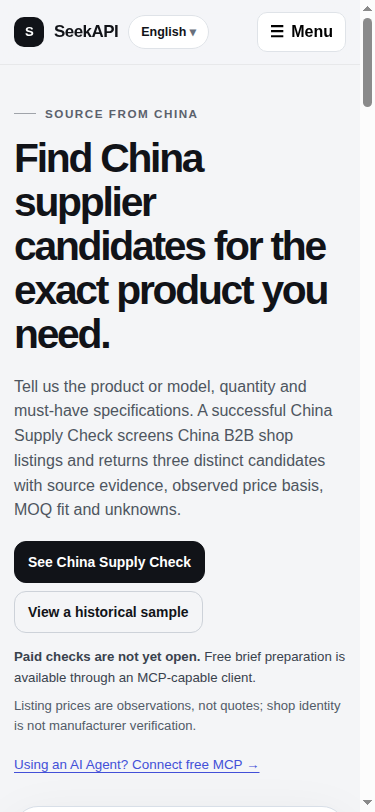
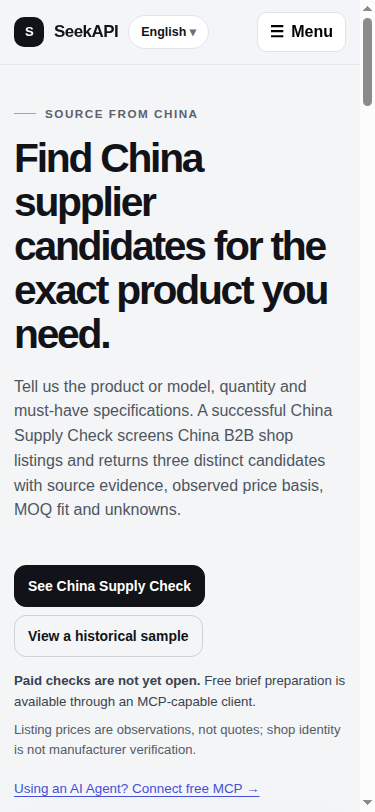
Repair B and C first-screen hierarchy and preserve price-tier uncertainty

Changed region(s): [[0.0293, 0.6466, 0.9093, 0.9852]]

diff --git a/app/growth.css b/app/growth.css
@@ -1,1 +1,8 @@
 .growth-hero{padding:64px 0 72px}.growth-hero-grid{display:grid;grid-template-columns:1.15fr .85fr;gap:56px;align-items:center}.growth-hero h1{font-size:clamp(2.7rem,4.5vw,4.5rem);line-height:1.04;letter-spacing:-.055em;max-width:720px}.growth-lead{font-size:1.1rem;color:#4e5560;line-height:1.65;margin:24px 0}.growth-availability{font-size:.88rem;color:#39424d;line-height:1.55;margin:18px 0 8px;max-width:640px}.growth-limits{font-size:.86rem;color:#525b68;margin:0 0 16px;max-width:640px}.growth-agent-link{font-size:.84rem;color:#4350d8;text-decoration:underline;text-underline-offset:3px}.growth-brief{border:1px solid #d8dfe8;background:#fff;border-radius:24px;padding:28px;box-shadow:var(--shadow)}.growth-label{font-size:.72rem;font-weight:750;letter-spacing:.08em;text-transform:uppercase;color:#606978}.growth-inputs{margin:16px 0 0}.growth-inputs>div{padding:14px 0;border-bottom:1px solid #e6eaf0}.growth-inputs dt{font-size:.78rem;color:#697280}.growth-inputs dd{margin:4px 0 0;font-weight:650;font-size:1rem}.growth-result{border-radius:16px;background:#eef1fb;padding:20px;margin-top:22px}.growth-result strong{display:block;font-size:1.35rem;letter-spacing:-.025em;margin-top:12px}.growth-result p{font-size:.92rem;line-height:1.65;color:#4b5568}.growth-result .growth-small{font-size:.82rem;margin-bottom:0}.growth-proof{padding:56px 0;background:#e9edf3;border-block:1px solid #d9e0e9}.growth-proof .section-heading{margin-bottom:24px}.growth-proof .section-heading h2{font-size:clamp(2rem,3vw,3rem)}.growth-proof-row{display:flex;gap:32px;align-items:center;justify-content:space-between}.growth-proof-row p{max-width:760px;margin:0;color:#475263;line-height:1.7}.growth-proof-row .button{flex-shrink:0}.growth-question-grid{display:grid;grid-template-columns:repeat(3,minmax(0,1fr));gap:18px}.growth-question-grid>a{background:#fff;border:1px solid var(--line);border-radius:20px;padding:26px}.growth-question-grid>a:hover{border-color:#7886bd}.growth-question-grid span{color:#5662b1;font-size:.78rem;font-weight:750}.growth-question-grid h3{font-size:1.25rem;margin:18px 0 10px;line-height:1.35;letter-spacing:-.025em}.growth-question-grid p{color:#68707b;line-height:1.6}.growth-next{background:#edf0f6}.section-dark .text-link{color:#b4bcff}.growth-utility{font-size:.82rem;white-space:nowrap;color:#525b68;text-decoration:underline;text-underline-offset:3px}@media(max-width:1100px){.growth-utility{display:none}}@media(max-width:980px){.growth-hero-grid{grid-template-columns:1fr;gap:30px}.growth-brief{max-width:640px}.growth-question-grid{grid-template-columns:1fr}.growth-proof-row{align-items:flex-start;flex-direction:column}.growth-utility{display:inline}}@media(max-width:700px){.growth-hero{padding:32px 0 44px}.growth-hero h1{font-size:2.55rem;line-height:1.08}.growth-hero .eyebrow{margin-bottom:14px}.growth-lead{font-size:1rem;margin:18px 0;line-height:1.55}.growth-hero .button-row{gap:8px}.growth-hero .button{min-height:42px;font-size:.87rem;padding:0 13px}.growth-brief{padding:22px}.growth-availability{margin-top:14px;font-size:.83rem}.growth-limits{font-size:.82rem}.growth-utility{display:none}.growth-proof{padding:40px 0}.growth-next .section-heading h2{font-size:2.5rem}}@media(prefers-reduced-motion:reduce){html{scroll-behavior:auto}.button{transition:none}.button:hover{transform:none}}
+
+/* B and C are distinct first-screen hypotheses, including on mobile. */
+.growth-hero-grid{grid-template-areas:"copy brief" "actions brief";row-gap:0}.growth-copy{grid-area:copy}.growth-actions{grid-area:actions}.growth-brief{grid-area:brief}.growth-example-request{font-size:.92rem;margin:14px 0 0;line-height:1.5}
+@media(max-width:980px){.growth-hero-grid{grid-template-areas:"copy" "actions" "brief";row-gap:24px}.growth-variant-b .growth-hero-grid,.growth-variant-c .growth-hero-grid{grid-template-areas:"copy" "brief" "actions"}}
+@media(max-width:700px){.growth-variant-b,.growth-variant-c{padding-top:24px}.growth-variant-b .growth-hero-grid,.growth-variant-c .growth-hero-grid{row-gap:12px}.growth-variant-b h1,.growth-variant-c h1{font-size:2.05rem;line-height:1.08}.growth-variant-b .growth-lead,.growth-variant-c .growth-lead{display:none}.growth-variant-b .eyebrow,.growth-variant-c .eyebrow{margin-bottom:10px}.growth-variant-b .growth-brief,.growth-variant-c .growth-brief{padding:14px}.growth-variant-b .growth-inputs,.growth-variant-c .growth-inputs{margin-top:6px}.growth-variant-b .growth-inputs>div,.growth-variant-c .growth-inputs>div{padding:5px 0}.growth-variant-b .growth-inputs dt,.growth-variant-c .growth-inputs dt{font-size:.7rem}.growth-variant-b .growth-inputs dd,.growth-variant-c .growth-inputs dd{font-size:.85rem;margin-top:2px;line-height:1.4}.growth-variant-b .growth-result,.growth-variant-c .growth-result{padding:12px;margin-top:10px}.growth-variant-b .growth-result strong{font-size:1.1rem;margin-top:5px}.growth-variant-b .growth-result p,.growth-variant-c .growth-result p{font-size:.8rem;line-height:1.45;margin:7px 0}.growth-variant-b .growth-result .growth-small,.growth-variant-c .growth-result .growth-small{font-size:.75rem}.growth-variant-b .growth-label,.growth-variant-c .growth-label{font-size:.65rem;letter-spacing:.04em}.growth-variant-c .growth-example-request{font-size:.82rem;margin-top:6px}.growth-variant-c .growth-result .text-link{font-size:.78rem}.growth-variant-b .growth-availability,.growth-variant-c .growth-availability{margin-top:10px}.growth-variant-b .growth-limits,.growth-variant-c .growth-limits{margin-bottom:10px}.growth-variant-b .growth-agent-link,.growth-variant-c .growth-agent-link{font-size:.78rem}}
+
+@media(max-width:700px){.growth-variant-c{padding-top:12px}.growth-variant-c .growth-result{margin-top:6px}.growth-variant-c .growth-result p{margin:5px 0}}

diff --git a/components/growth-home.tsx b/components/growth-home.tsx
@@ -20,18 +20,19 @@ const variants = {
 function BriefIllustration({ variant }: { variant: HomepageVariant }) {
   return <aside className="growth-brief" aria-label="Static product brief illustration; no submission">
     <span className="growth-label">Illustrative brief · no submission</span>
-    <dl className="growth-inputs">
+    {variant !== 'c' ? <dl className="growth-inputs">
       <div><dt>Product / model</dt><dd>M6 flat washer</dd></div>
       <div><dt>Quantity + unit</dt><dd>500 pieces</dd></div>
       <div><dt>Must-have specification</dt><dd>304 stainless steel</dd></div>
-    </dl>
+    </dl> : <p className="growth-example-request">M6 flat washer · 500 pieces · 304 stainless steel</p>}
     {variant === 'c' ? <div className="growth-result">
       <span className="growth-label">Historical V4 prefix · full run TECHNICAL_BLOCKED</span>
       <dl className="growth-inputs">
         <div><dt>Source / observation</dt><dd>1688 listing · 29 Sep 2026</dd></div>
-        <div><dt>Price basis / MOQ</dt><dd>CNY 0.01 per 个 · MOQ 100 个</dd></div>
-        <div><dt>Evidence / UNKNOWN</dt><dd>304 and M6 in listing title; certificate, dimensions, stock and quote UNKNOWN</dd></div>
+        <div><dt>Observed price basis / MOQ</dt><dd>CNY 0.01 per 个 · MOQ 100 个</dd></div>
+        <div><dt>UNKNOWN</dt><dd>Price-tier applicability at 500 pieces, exact pack conversion, certificate, dimensions, stock and quote</dd></div>
       </dl>
+      <p className="growth-small">304/M6 appear in the listing title; not a confirmed price for 500 pieces.</p>
       <Link className="text-link" href="/china-supply-check/sample">Inspect original source and limits</Link>
     </div> : <div className="growth-result">
       <span className="growth-label">On a successful future check</span>
@@ -45,20 +46,22 @@ function BriefIllustration({ variant }: { variant: HomepageVariant }) {
 export function GrowthHome({ variant = 'a' }: { variant?: HomepageVariant }) {
   const copy = variants[variant];
   return <><Header /><main id="main-content">
-    <section className="growth-hero"><div className="container growth-hero-grid">
-      <div>
+    <section className={'growth-hero growth-variant-' + variant}><div className="container growth-hero-grid">
+      <div className="growth-copy">
         <Eyebrow>Source from China</Eyebrow>
         <h1>{copy.heading}</h1>
         <p className="growth-lead">{copy.lead}</p>
+      </div>
+      <BriefIllustration variant={variant} />
+      <div className="growth-actions">
         <div className="button-row">
-          <Link className="button" href="/china-supply-check">See China Supply Check</Link>
-          <Link className="button button-ghost" href="/china-supply-check/sample">View a historical sample</Link>
+          <Link className="button" href="/china-supply-check" aria-label="See China Supply Check">{variant === 'a' ? 'See China Supply Check' : 'China Supply Check'}</Link>
+          <Link className="button button-ghost" href="/china-supply-check/sample" aria-label="View a historical sample">{variant === 'a' ? 'View a historical sample' : 'Historical sample'}</Link>
         </div>
         <p className="growth-availability"><strong>Paid checks are not yet open.</strong> Free brief preparation is available through an MCP-capable client.</p>
         <p className="growth-limits">Listing prices are observations, not quotes; shop identity is not manufacturer verification.</p>
         <Link className="growth-agent-link" href="/for-agents#china-supply-check-mcp">Using an AI Agent? Connect free MCP →</Link>
       </div>
-      <BriefIllustration variant={variant} />
     </div></section>
     <section className="section growth-proof"><div className="container">
       <SectionTitle eyebrow="Inspect the evidence" title="A real historical sample, with its limits visible." body="The M6 304 washer example shows three primary documented platform shops, source-linked observations and explicit unknowns. It demonstrates the report format." />

diff --git a/scripts/verify_growth_browser.py b/scripts/verify_growth_browser.py
@@ -1,0 +1,75 @@
+#!/usr/bin/env python3
+"""Verify actual first-screen candidate content; never substitutes for a buyer study."""
+import argparse
+import json
+import subprocess
+from pathlib import Path
+
+parser = argparse.ArgumentParser()
+parser.add_argument("base_url")
+parser.add_argument("--browser", default="agent-browser")
+parser.add_argument("--executable-path")
+parser.add_argument("--session", default="website-growth-evidence")
+args = parser.parse_args()
+root = Path(__file__).resolve().parents[1]
+output = root / "docs/website-growth"
+(output / "screenshots").mkdir(exist_ok=True)
+started = False
+def run(*commands):
+    global started
+    prefix = [args.browser, "--session", args.session]
+    if args.executable_path and not started:
+        prefix += ["--executable-path", args.executable_path]
+    started = True
+    return subprocess.check_output(prefix + list(commands), text=True).strip()
+
+expression = """JSON.stringify({
+ width:innerWidth,height:innerHeight,
+ overflow:document.documentElement.scrollWidth>innerWidth,
+ h1:document.querySelector('h1').innerText,h1Count:document.querySelectorAll('h1').length,
+ briefBottom:document.querySelector('.growth-brief').getBoundingClientRect().bottom,
+ resultBottom:document.querySelector('.growth-result').getBoundingClientRect().bottom,
+ briefFields:Array.from(document.querySelectorAll('.growth-inputs>div')).map(row=>({
+  label:row.querySelector('dt').innerText,bottom:row.getBoundingClientRect().bottom})),
+ resultText:document.querySelector('.growth-result').innerText,
+ paidNoteBottom:document.querySelector('.growth-availability').getBoundingClientRect().bottom,
+ limitsBottom:document.querySelector('.growth-limits').getBoundingClientRect().bottom,
+ errorOverlay:!!document.querySelector('[data-nextjs-dialog]')
+})"""
+records = []
+try:
+    for variant in ["a", "b", "c"]:
+        viewports = [("mobile", 375, 812), ("desktop", 1440, 900)]
+        if variant != "a": viewports += [("mobile-tall", 375, 900)]
+        for label, width, height in viewports:
+            run("set", "viewport", str(width), str(height))
+            run("open", args.base_url.rstrip("/") + "/website-growth-preview/" + variant)
+            run("wait", "--load", "networkidle")
+            data = json.loads(run("eval", expression))
+            if isinstance(data, str): data = json.loads(data)
+            assert not data["overflow"] and data["h1Count"] == 1 and not data["errorOverlay"], data
+            assert data["paidNoteBottom"] <= height and data["limitsBottom"] <= height, data
+            if variant in ["b", "c"]:
+                assert data["resultBottom"] <= height and data["briefBottom"] <= height, data
+                assert all(field["bottom"] <= height for field in data["briefFields"]), data
+            if variant == "b":
+                assert [field["label"] for field in data["briefFields"]] == ["Product / model", "Quantity + unit", "Must-have specification"], data
+                assert "Three distinct shop candidates" in data["resultText"] and "shortage" in data["resultText"], data
+            if variant == "c":
+                for term in ["TECHNICAL_BLOCKED", "29 Sep 2026", "CNY 0.01 per 个", "MOQ 100 个", "UNKNOWN", "Price-tier applicability at 500 pieces", "exact pack conversion", "not a confirmed price for 500 pieces"]:
+                    assert term.lower() in data["resultText"].lower(), (term, data)
+            data.update(variant=variant, viewport=label, page_errors=run("errors"))
+            assert not data["page_errors"], data
+            if label != "mobile-tall":
+                run("screenshot", str(output / "screenshots" / (variant + "-" + label + ".png")))
+            records.append(data)
+finally:
+    run("close")
+(output / "browser-verification.json").write_text(json.dumps({
+    "records": records,
+    "mobile_menu_navigation": "Separately verified: keyboard menu activation and Source from China destination",
+    "skip_link": "Separately verified: Tab focuses skip link, Enter reaches #main-content",
+    "buyer_study": "NOT_RUN; browser geometry is not buyer comprehension",
+    "review_repair": "5364732399: B/C content visible in first screen; C price-tier and pack uncertainty adjacent",
+}, indent=2) + "\n")
+print(json.dumps({"candidate_viewport_checks": len(records), "errors": [], "buyer_study": "NOT_RUN"}))

diff --git a/docs/website-growth/README.md b/docs/website-growth/README.md
@@ -39,3 +39,10 @@ Reproduce with `npm ci --ignore-scripts`, `npm run build`, then `npm run start -
 4. **Public release and outside-in acceptance: NOT_RUN.** Apply P01–P12 after the selected implementation receives review and its owner releases it. #1034 supplies its own WAF/MCP evidence; this branch does not change that workstream. Paid activation, provider calls, supplier contact, Registry and platform submissions are outside this PR.
 
 The new source files add no dependency, tracking system, task database, dispatcher, payment module or new control plane.
+
+## Bounded repair of implementation review 5364732399
+
+- B/C mobile hierarchy places the brief/evidence block between the heading and action links. All three B input fields and its result, and C source/date/unit/MOQ/UNKNOWN/status and relevant price qualifications, must appear in the fixed first screen before the five-second study. A remains provisional; no buyer results are inferred.
+- C now states that applicability of the price tier at 500 pieces and exact pack conversion are UNKNOWN, directly beside the historical listing excerpt. The excerpt says it is not a confirmed price for 500 pieces.
+- `scripts/verify_growth_browser.py` asserts the actual result and field bounds plus availability/limits, checks C's relevant uncertainty text, and re-records all six screenshots. It also tests B/C at 375×900 in addition to 375×812 and desktop 1440×900.
+- Reproduce with `python3 scripts/verify_growth_browser.py http://127.0.0.1:3221 --browser <agent-browser-path> --executable-path <chromium-path>` after a fresh preview build/start. The eight viewport cases and route evidence are refreshed for this repair.
